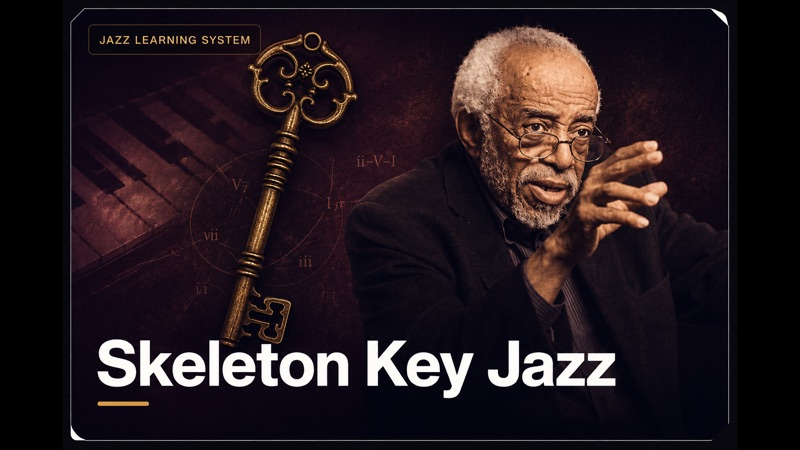
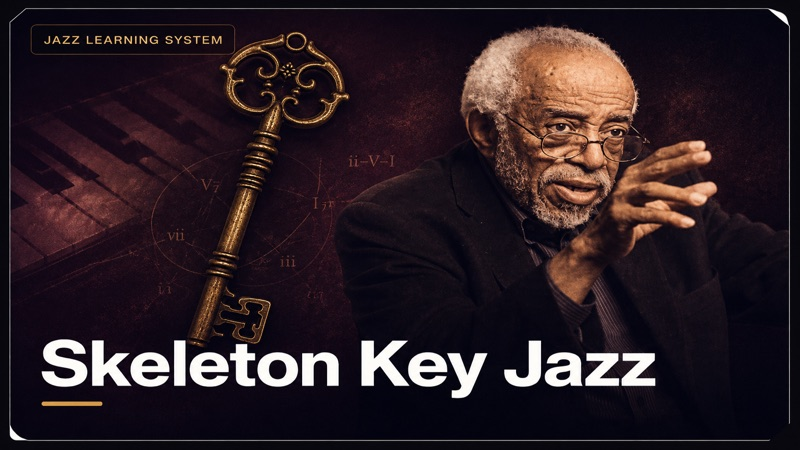
Rework the top nav: Home on the left, Compose, and digits 0-7 everywhere
Home now sits at the far left of the workspace row. It isn't a workspace — it
is PickupPracticeHome's surface, reached by event — so it isn't in MODES; the
nav renders it separately and it answers to "0".

Create becomes Compose, which is what it does. The id stays "create": it is
persisted in localStorage and referenced by chooseMode throughout page.js, and
renaming it would silently drop every saved workspace. Only the label moved,
in the tabs, home's nav pills, and the shortcut map — goWorkspace() finds tabs
by their label text, so those three have to agree.

The tabs are reordered to match the digits, and the digits now run to 7:
0 Home · 1 Practice · 2 Songbook · 3 Compose · 4 BeatForge · 5 Skeleton Key ·
6 Tonal · 7 Reference. Focus keeps the low digits for its own ladders — 3:2's
levels run 1-4 and Pathways' rungs run 1-5 — so 1-4 stand down there, 5 stands
down only while Pathways is up, and 6-7 are past the end of both.

"1" means Practice's core view, not Focus. It used to mean "back into Focus"
while a song was playing, and clicking the tab lands on whichever surface
practiceView was last left on — so "go to Practice" could take you deeper into
Focus instead of out of it.

Two bugs fixed on the way, one of them older than this change. The digits
Focus doesn't claim could not leave it: Focus renders no [role="tab"] chrome,
so navigating by clicking a tab found nothing and silently did nothing — Tonal
[…]

diff --git a/src/app/page.js b/src/app/page.js
@@ -34,7 +34,7 @@ import { downloadImprovGuide, buildImprovMapData } from "@/lib/music/improvGuide
 import { DRUM_KIT_NAMES, DEFAULT_DRUM_KIT } from "@/lib/music/samples"
 import { parseTonalUserSongs } from "@/lib/music/importTonal"
 import { parseGigChord, GIGBOOK_SONGS, gigSongToBars, parseGigKey, gigTempoNumber } from "@/lib/music/gigbook"
-import { upsertLibrarySong, catalogEntryToPlayable, buildCatalog, OPEN_LIBRARY_EVENT, ENTER_FOCUS_EVENT, GO_GIG_EVENT, LOAD_SONG_EVENT } from "@/lib/music/songSource"
+import { upsertLibrarySong, catalogEntryToPlayable, buildCatalog, OPEN_LIBRARY_EVENT, ENTER_FOCUS_EVENT, GO_GIG_EVENT, GO_PRACTICE_EVENT, EXIT_FOCUS_EVENT, LOAD_SONG_EVENT } from "@/lib/music/songSource"
 import { guidedPrescription, drillStage, nextKeyInCycle, DRILL_LOOPS_PER_STAGE, PENA_DRILLS } from "@/lib/music/penaDrills"
 import { computeVoiceLeadPath, TARGET_ROLE_LABELS } from "@/lib/music/voiceLeadPath"
 import { STARTER_PRESETS, STARTER_STRIP, SCENARIO_CONFIG, LOAD_STARTER_EVENT } from "@/lib/music/starters"
@@ -53,7 +53,7 @@ import BeatForgeWorkspace from "@/components/BeatForgeWorkspace"
 import SkeletonKeyWorkspace from "@/components/SkeletonKeyWorkspace"
 import ReferenceGuides from "@/components/ReferenceGuides"
 import SongSearch from "@/components/SongSearch"
-import { GO_HOME_EVENT } from "@/lib/homeNav"
+import { GO_HOME_EVENT, goHome } from "@/lib/homeNav"
 import { useAuth, useCloudLibrary } from "@/lib/cloud"
 import { logActivity } from "@/lib/recentActivity"
 import SessionStrip from "@/components/practice/SessionStrip"
@@ -112,14 +112,23 @@ const INITIAL_BARS = [
 // The app had grown into several products stacked vertically — 11 panels and ~317
 // controls on one 5-screen page, all at equal weight. Modes show one workspace
 // at a time; nothing was removed, it's just no longer all at once.
+// Order matters twice over: it is the order the tabs sit in, and it is the
+// order the digit shortcuts count through (KeyboardShortcuts.jsx). Home is a
+// surface rather than a workspace — it belongs to PickupPracticeHome and is
+// reached by event — so it isn't in this list; the nav renders it separately
+// on the far left, and it answers to "0".
+//
+// The ids are persisted in localStorage and referenced by chooseMode calls
+// throughout this file, so "create" keeps its id while its label reads
+// Compose. Renaming the id would silently drop every saved workspace.
 const MODES = [
   { id: "practice",  label: "Practice",  icon: "🎧", blurb: "Play along, loop a section, drill it slow" },
-  { id: "gig",       label: "Songbook", icon: "🎤", blurb: "Stage charts and setlists" },
-  { id: "create",    label: "Create",    icon: "✍", blurb: "Build charts, compose songs, and develop melodic lines" },
+  { id: "gig",       label: "Songbook",  icon: "🎤", blurb: "Stage charts and setlists" },
+  { id: "create",    label: "Compose",   icon: "✍", blurb: "Build charts, compose songs, and develop melodic lines" },
   { id: "beatforge", label: "BeatForge", icon: "🥁", blurb: "Program rhythm, build phrases, grow your lick book" },
-  { id: "reference", label: "Reference", icon: "📖", blurb: "Circle of fifths, key chart, progressions" },
-  { id: "tonal",     label: "Tonal",     icon: "🎹", blurb: "The published Tonal app, embedded as-is" },
   { id: "skeletonkey", label: "Skeleton Key", icon: "🗝", blurb: "The complete improvisation curriculum, chapter by chapter" },
+  { id: "tonal",     label: "Tonal",     icon: "🎹", blurb: "The published Tonal app, embedded as-is" },
+  { id: "reference", label: "Reference", icon: "📖", blurb: "Circle of fifths, key chart, progressions" },
 ]
 
 // Tonal is embedded rather than ported: the live site is loaded in a frame
@@ -2237,13 +2246,28 @@ export default function Home() {
     return () => window.removeEventListener(GO_HOME_EVENT, onGoHome)
   }, [focusStage, exitFocusMode])
 
+  // Same shape, and for the same reason: a digit that Focus doesn't claim has
+  // to be able to leave it. The deps matter — read focusStage from a listener
+  // registered once and it is false forever, so the handler silently does
+  // nothing and the shortcut looks broken.
+  useEffect(() => {
+    function onExitFocus() { if (focusStage) exitFocusMode() }
+    window.addEventListener(EXIT_FOCUS_EVENT, onExitFocus)
+    return () => window.removeEventListener(EXIT_FOCUS_EVENT, onExitFocus)
+  }, [focusStage, exitFocusMode])
+
   // "2" asks for Songbook the same way, always (not just while playing) —
   // see GO_GIG_EVENT's doc comment for why goWorkspace()'s DOM-click can't
   // be trusted to work here.
   useEffect(() => {
+    function onGoPractice() { chooseMode("practice"); choosePracticeView("cockpit") }
     function onGoGig() { chooseMode("gig") }
+    window.addEventListener(GO_PRACTICE_EVENT, onGoPractice)
     window.addEventListener(GO_GIG_EVENT, onGoGig)
-    return () => window.removeEventListener(GO_GIG_EVENT, onGoGig)
+    return () => {
+      window.removeEventListener(GO_PRACTICE_EVENT, onGoPractice)
+      window.removeEventListener(GO_GIG_EVENT, onGoGig)
+    }
   }, []) // eslint-disable-line react-hooks/exhaustive-deps -- chooseMode closes over only stable setters
 
   // Spacebar = universal play / stop
@@ -3068,6 +3092,24 @@ export default function Home() {
             border: "1px solid var(--db-panel-border)",
           }}
         >
+          {/* Home sits with the workspace tabs but isn't one of them: it's
+              PickupPracticeHome's surface, reached by event (lib/homeNav)
+              because nothing in this tree can open it directly. Far left, and
+              it answers to "0" from anywhere. */}
+          <button
+            key="home"
+            onClick={goHome}
+            title="Home — your learning plan and recent work"
+            style={{
+              flex: "0 0 auto", minWidth: "96px",
+              padding: "9px 14px", borderRadius: "var(--db-r-md)", cursor: "pointer",
+              fontWeight: 700, fontSize: "var(--db-fs-md)",
+              border: "1px solid transparent", background: "transparent",
+              color: "var(--text)", opacity: 0.72,
+            }}
+          >
+            <span aria-hidden="true" style={{ marginRight: "6px" }}>🏠</span>Home
+          </button>
           {MODES.map(m => {
             const on = mode === m.id
             return (

diff --git a/src/components/KeyboardShortcuts.jsx b/src/components/KeyboardShortcuts.jsx
@@ -18,7 +18,7 @@
 
 import { useEffect, useState } from "react"
 import { goHome as requestHome } from "@/lib/homeNav"
-import { OPEN_LIBRARY_EVENT, ENTER_FOCUS_EVENT, GO_GIG_EVENT } from "@/lib/music/songSource"
+import { OPEN_LIBRARY_EVENT, GO_GIG_EVENT, GO_PRACTICE_EVENT, EXIT_FOCUS_EVENT } from "@/lib/music/songSource"
 
 // Grouped by what you're trying to do, not by loose technical category —
 // the old split had Tempo sitting oddly apart from Chart & Playback even
@@ -31,12 +31,13 @@ const GROUPS = [
     title: "Get around",
     items: [
       ["0", "Home, from anywhere"],
-      ["1", "Practice — Focus, while playing; 3:2's Blues scale, in Focus"],
-      ["2", "Songbook — live chart, while playing; 3:2's Minor, in Focus"],
-      ["3", "Create — 3:2's Major, in Focus"],
+      ["1", "Practice — 3:2's Blues scale, in Focus"],
+      ["2", "Songbook — 3:2's Minor, in Focus"],
+      ["3", "Compose — 3:2's Major, in Focus"],
       ["4", "BeatForge — 3:2's Altered, in Focus"],
-      ["5", "Reference — Pathways' Color rung, in Focus"],
+      ["5", "Skeleton Key — Pathways' Color rung, in Focus"],
       ["6", "Tonal"],
+      ["7", "Reference"],
       ["/", "Song library, from anywhere"],
       ["?", "Show or hide this sheet"],
     ],
@@ -208,23 +209,45 @@ export default function KeyboardShortcuts() {
         return
       }
 
-      // The numbering matches the order the tabs sit in: Practice, Songbook,
-      // Create, BeatForge, Reference, Tonal.
-      const workspaces = { "1": "Practice", "2": "Songbook", "3": "Create", "4": "BeatForge", "5": "Reference", "6": "Tonal" }
+      // The numbering matches the order the tabs sit in, left to right after
+      // Home: Practice, Songbook, Compose, BeatForge, Skeleton Key, Tonal,
+      // Reference.
+      const workspaces = {
+        "1": "Practice", "2": "Songbook", "3": "Compose", "4": "BeatForge",
+        "5": "Skeleton Key", "6": "Tonal", "7": "Reference",
+      }
       if (workspaces[event.key]) {
-        if (event.key !== "6" && inFocusStage() && (event.key !== "5" || pathwaysOn())) return
+        // Focus keeps the low digits for its own ladders: 3:2's levels run
+        // 1-4, and Scale Pathways' rungs run 1-5. So 1-4 always stand down
+        // there, 5 stands down only while Pathways is up, and 6-7 are past
+        // the end of both ladders and work everywhere.
+        const focusOwnsThisDigit =
+          inFocusStage() && !["6", "7"].includes(event.key) &&
+          (event.key !== "5" || pathwaysOn())
+        if (focusOwnsThisDigit) return
         event.preventDefault()
         event.stopPropagation()
-        // While a song is playing, "1" means "back to Focus" specifically —
-        // not just Practice, wherever practiceView last happened to be.
-        // Songbook always goes by event, not goWorkspace()'s DOM-click —
-        // Focus's phone-first stage renders no [role="tab"] chrome to click,
-        // so pressing it to leave Focus for Songbook would silently no-op
-        // otherwise.
-        if (event.key === "1" && document.body.dataset.dbPlaying === "true") {
-          window.dispatchEvent(new CustomEvent(ENTER_FOCUS_EVENT))
+        // Practice and Songbook go by event rather than goWorkspace()'s
+        // DOM-click: Focus's phone-first stage renders no [role="tab"] chrome
+        // to click, so pressing either to leave Focus would silently no-op.
+        // "1" asks for Practice's CORE view specifically — clicking the tab
+        // lands on whichever surface practiceView was left on, which could be
+        // Focus, and "go to Practice" should not mean "go deeper into Focus".
+        if (event.key === "1") {
+          window.dispatchEvent(new CustomEvent(GO_PRACTICE_EVENT))
         } else if (event.key === "2") {
           window.dispatchEvent(new CustomEvent(GO_GIG_EVENT))
+        } else if (inFocusStage()) {
+          // The digits Focus doesn't claim still have to get out of it. Focus
+          // renders no [role="tab"] chrome, so clicking a tab finds nothing;
+          // leave the stage first, then wait for the tabs to mount and click.
+          window.dispatchEvent(new CustomEvent(EXIT_FOCUS_EVENT))
+          const wanted = workspaces[event.key]
+          waitFor(
+            () => Array.from(document.querySelectorAll('[role="tab"]'))
+              .find((el) => (el.textContent || "").trim().toLowerCase().includes(wanted.toLowerCase())),
+            (el) => el.click()
+          )
         } else {
           goWorkspace(workspaces[event.key])
         }

diff --git a/src/components/PickupPracticeHome.jsx b/src/components/PickupPracticeHome.jsx
@@ -8,6 +8,7 @@ import { STARTER_STRIP, requestStarter } from "@/lib/music/starters"
 import { GO_HOME_EVENT } from "@/lib/homeNav"
 import { OPEN_LIBRARY_EVENT, requestLoadSong } from "@/lib/music/songSource"
 import { readLocalLibrary } from "@/lib/cloud"
+import { GO_PRACTICE_EVENT } from "@/lib/music/songSource"
 import BuildStamp from "./BuildStamp"
 
 const BRAND_ICON = "/dukebox-jazzmaster.png"
@@ -15,7 +16,7 @@ const BRAND_ICON = "/dukebox-jazzmaster.png"
 const WORKSPACE_LABELS = {
   practice: "Practice",
   gig: "Songbook",
-  create: "Create",
+  create: "Compose",
   beatforge: "BeatForge",
   reference: "Reference",
   tonal: "Tonal",
@@ -417,6 +418,16 @@ export default function PickupPracticeHome() {
     setWorkspace(id)
     setPracticeSurface("tools")
   }
+
+  // The "1" shortcut. page.js sets the mode and the cockpit view, but the home
+  // SURFACE is this component's state — without this, "1" from another
+  // workspace set mode to practice and home simply reappeared, because
+  // practiceSurface was still "home" from however you last left it.
+  useEffect(() => {
+    const onGoPractice = () => openPracticeCenter()
+    window.addEventListener(GO_PRACTICE_EVENT, onGoPractice)
+    return () => window.removeEventListener(GO_PRACTICE_EVENT, onGoPractice)
+  }, []) // eslint-disable-line react-hooks/exhaustive-deps -- openPracticeCenter closes over stable setters
 
   function openPracticeCenter(sectionLabel) {
     findWorkspaceTab("Practice")?.click()
@@ -1204,19 +1215,19 @@ export default function PickupPracticeHome() {
             <Icon name="gig" /><span>Songbook</span>
           </button>
           <button type="button" className="db-pickup-nav-button" onClick={() => openWorkspace("create")}>
-            <Icon name="create" /><span>Create</span>
+            <Icon name="create" /><span>Compose</span>
           </button>
           <button type="button" className="db-pickup-nav-button" onClick={() => openWorkspace("beatforge")}>
             <Icon name="beatforge" /><span>BeatForge</span>
           </button>
-          <button type="button" className="db-pickup-nav-button" onClick={() => openWorkspace("reference")}>
-            <Icon name="reference" /><span>Reference</span>
+          <button type="button" className="db-pickup-nav-button" onClick={() => openWorkspace("skeletonkey")}>
+            <Icon name="skeletonkey" /><span>Skeleton Key</span>
           </button>
           <button type="button" className="db-pickup-nav-button" onClick={() => openWorkspace("tonal")}>
             <Icon name="tonal" /><span>Tonal</span>
           </button>
-          <button type="button" className="db-pickup-nav-button" onClick={() => openWorkspace("skeletonkey")}>
-            <Icon name="skeletonkey" /><span>Skeleton Key</span>
+          <button type="button" className="db-pickup-nav-button" onClick={() => openWorkspace("reference")}>
+            <Icon name="reference" /><span>Reference</span>
           </button>
         </nav>
 

diff --git a/src/lib/music/songSource.js b/src/lib/music/songSource.js
@@ -32,6 +32,20 @@ export const ENTER_FOCUS_EVENT = "dukebox:enter-focus"
 // This bypasses that entirely.
 export const GO_GIG_EVENT = "dukebox:go-gig"
 
+// Fired by the "1" shortcut. Practice has two surfaces — the cockpit and the
+// Focus stage — and clicking the tab lands on whichever one practiceView was
+// left on, so "1" could take you INTO Focus rather than to Practice proper.
+// This asks for the core view explicitly, and like GO_GIG_EVENT it works from
+// inside Focus, where none of the usual tab chrome is rendered to click.
+export const GO_PRACTICE_EVENT = "dukebox:go-practice"
+
+// Leave the Focus stage without saying where to go next. Focus renders none
+// of the normal workspace chrome, so a shortcut that navigates by clicking a
+// [role="tab"] button finds nothing there and silently does nothing — which
+// is how the Tonal and Reference digits behaved from inside Focus. Fire this
+// first, then the tab exists to be clicked.
+export const EXIT_FOCUS_EVENT = "dukebox:exit-focus"
+
 // Home's "Most Popular" rail loads one specific catalog song by id — same
 // cross-tree reasoning as LOAD_STARTER_EVENT, but by catalog id (any
 // "user:"/"gig:"/"form:"/"tavern:" entry) instead of a fixed starter preset,
